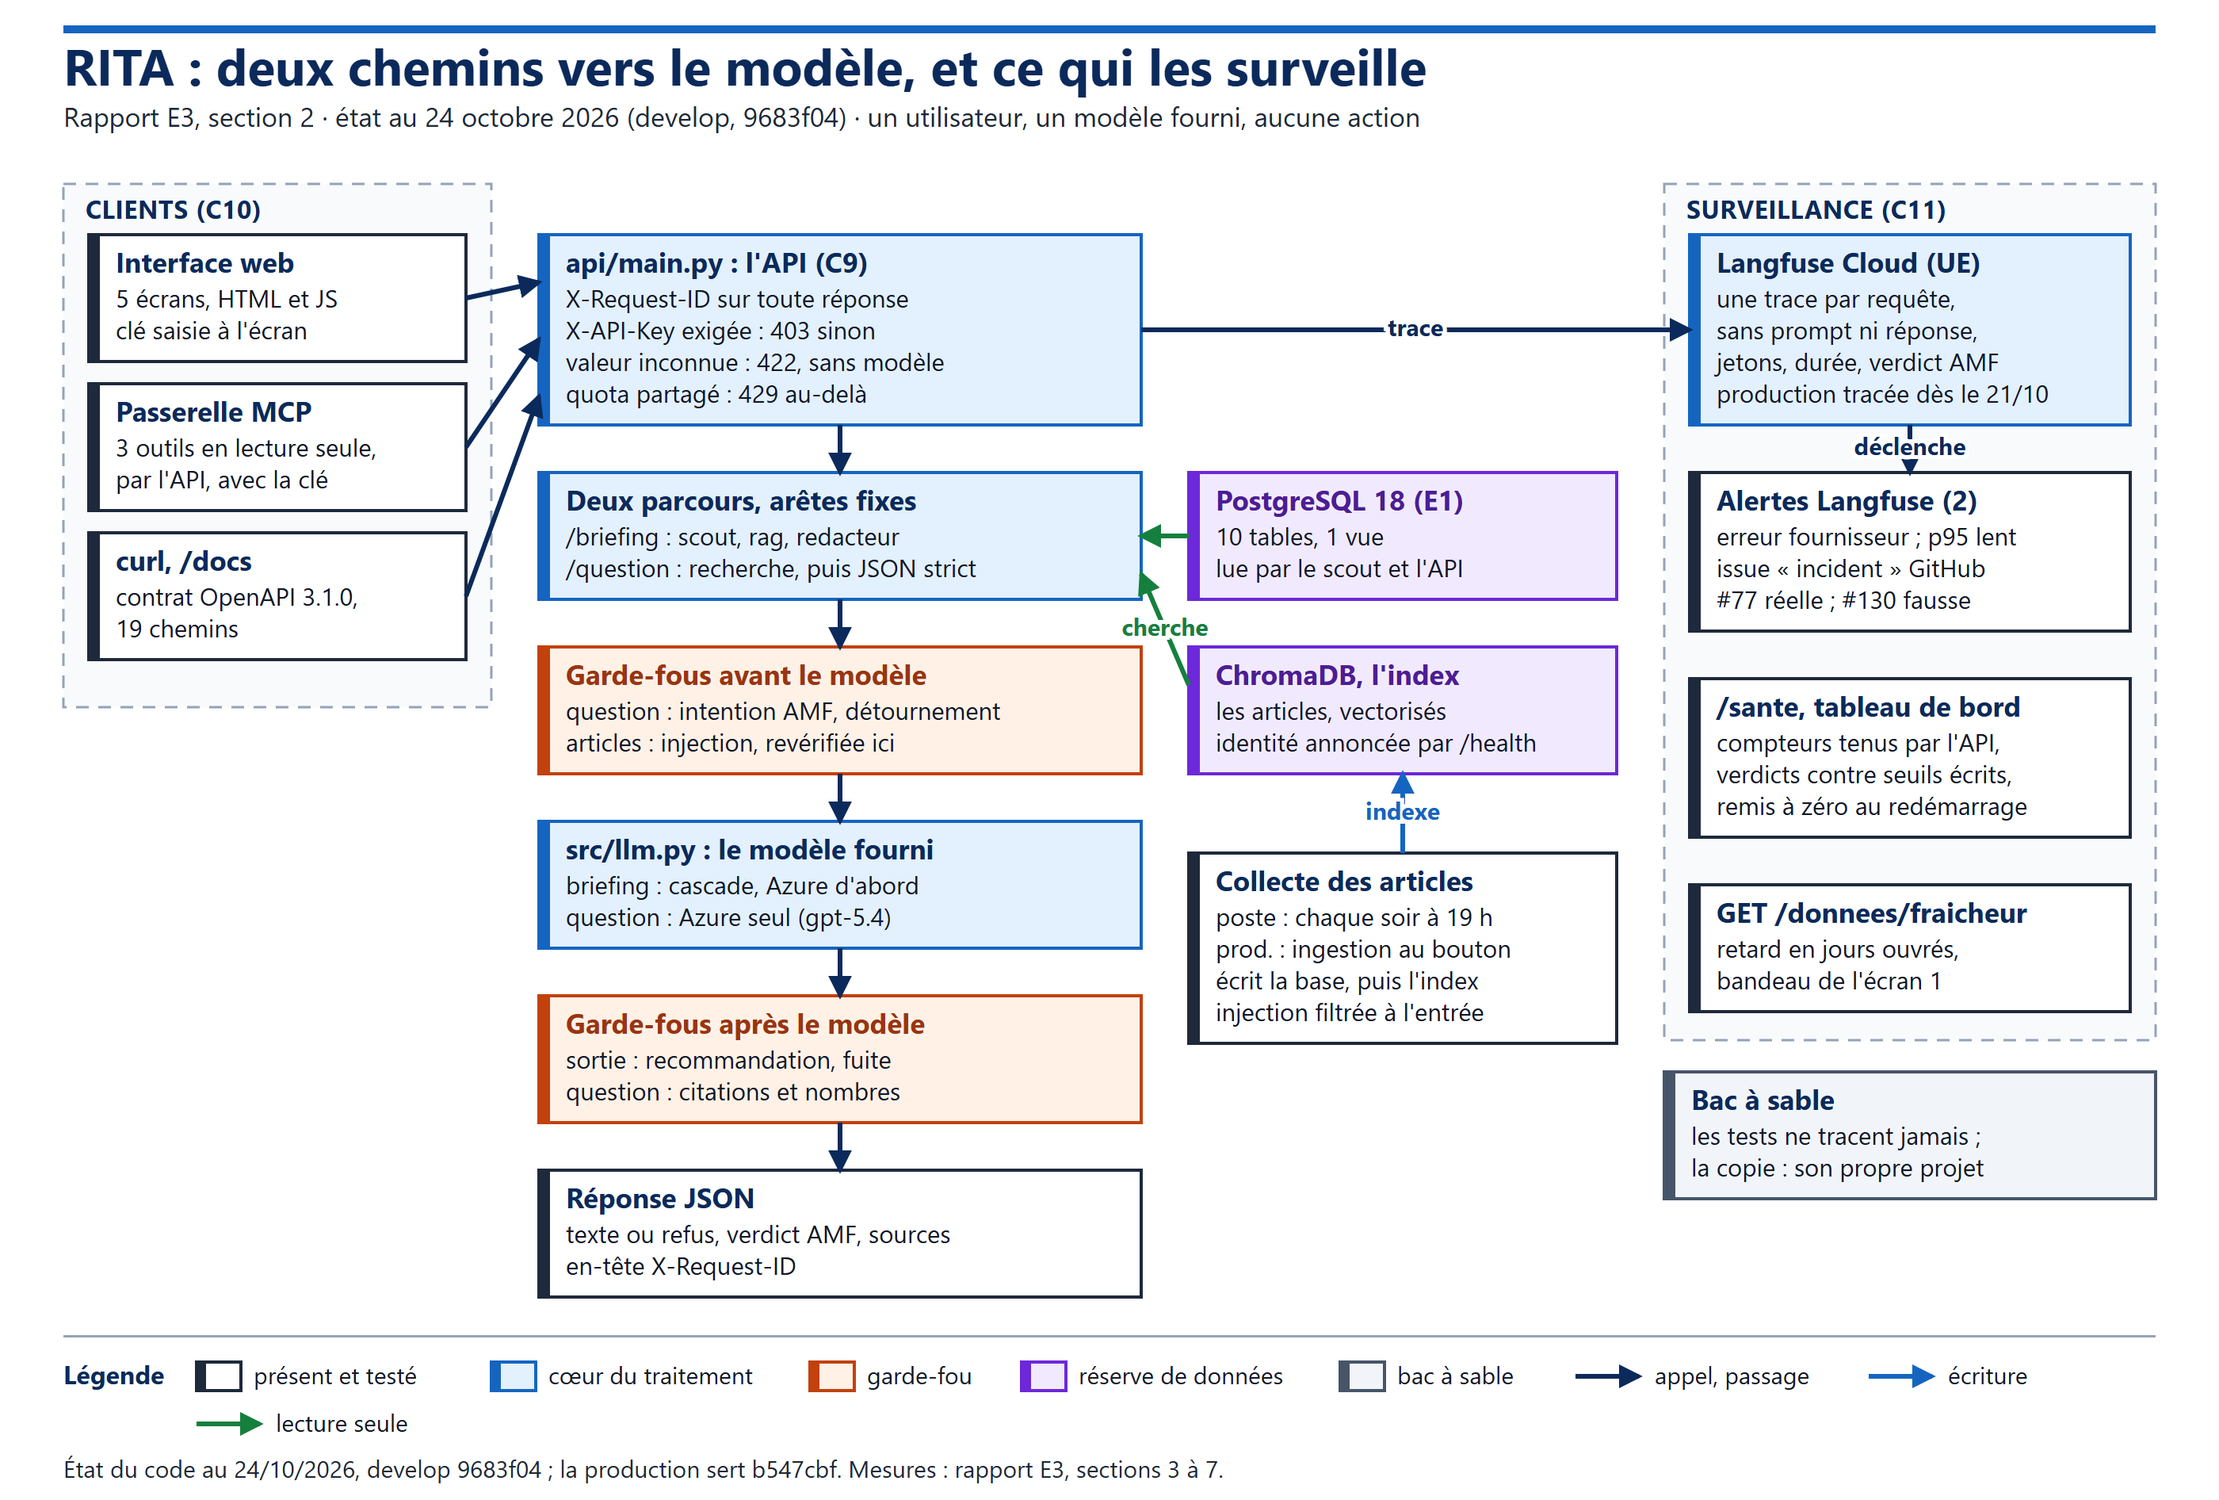
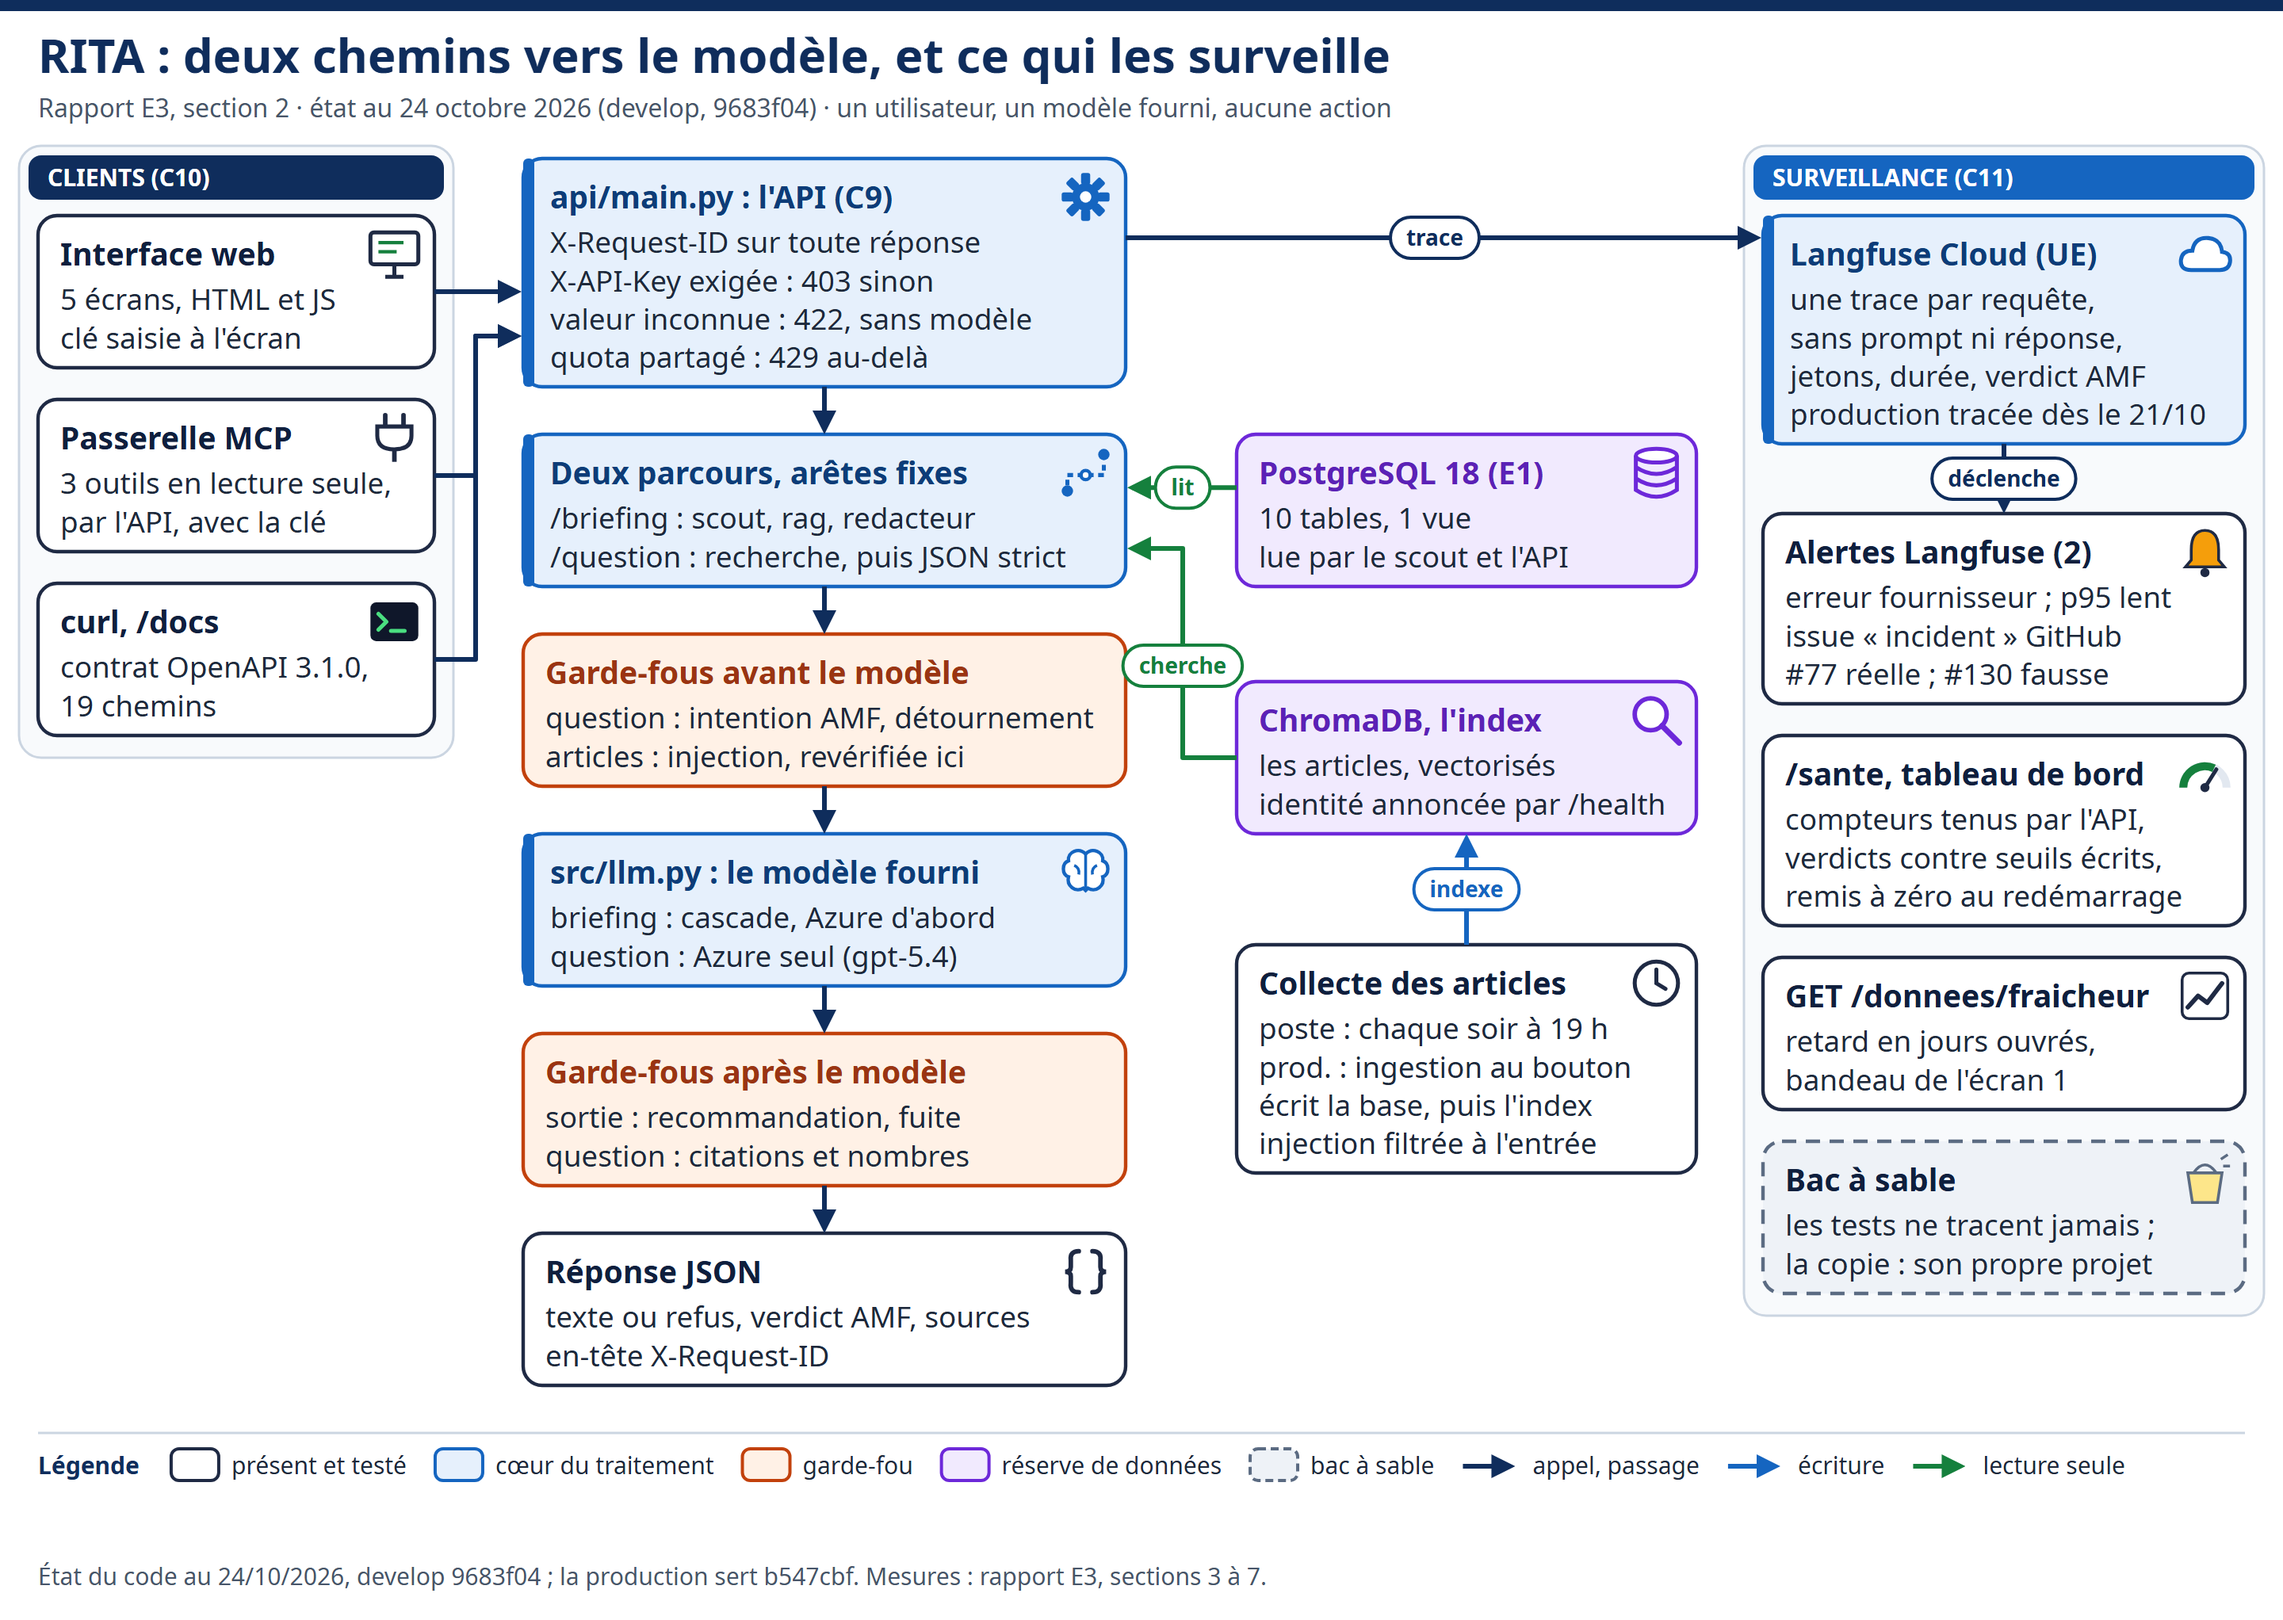
Schemas E3 : la mise en forme d Era, memes textes que le generateur, comparee par un test
Les cinq images publiees sont rendues par Chrome depuis E3-<nom>-illustre.svg (sources d Era, lues comme du texte : ni
script ni ressource externe). tests/test_schemas_e3.py (41 tests, ecrit d abord, 20 rouges sans les sources) compare
chaque texte de la mise en forme a ceux du generateur, verifie qu elle ne charge et n execute rien, et qu elle reste
lisible imprimee (texte courant de 6 a 6,9 points, 5 au plus petit). Prouve en reintroduisant l erreur 6 h a 9 h de la
premiere version : le test tombe. Le generateur reste la source des textes, le drawio et le svg generes les fichiers a
corriger.

Changed region(s): [[0.0, 0.0, 1.0, 0.9979]]

diff --git a/tests/test_schemas_e3.py b/tests/test_schemas_e3.py
@@ -1,0 +1,113 @@
+"""Les schémas du rapport E3 disent ce que dit le générateur, et la mise en forme d'Era aussi (E3 v1.5, 24/10/2026).
+
+Pourquoi ce test : le 24/10, la première mise en forme des cinq schémas, faite à partir d'un rendu intermédiaire,
+disait « 6 h à 9 h » pour le créneau du matin (8 h à 9 h dans le code), et deux autres textes que le générateur avait
+déjà corrigés. Une image dessinée à la main ne se relit pas seule : ce test compare chaque texte de la mise en forme
+(`E3-<nom>-illustre.svg`) aux textes du générateur, qui sont ceux vérifiés contre le code.
+
+Le générateur reste la source des textes ; le `.drawio` et le `.svg` générés restent les fichiers à corriger ; la
+mise en forme d'Era est l'image publiée, rendue en PNG depuis son SVG.
+"""
+import html
+import importlib.util
+import re
+import sys
+from pathlib import Path
+
+import pytest
+
+RACINE = Path(__file__).parent.parent
+DOSSIER = RACINE / "docs/rapports/E3/schemas"
+NOMS = ("E3-architecture", "E3-integration-briefing", "E3-monitorage", "E3-strategie-tests", "E3-chaine-livraison")
+# Étiquettes de flèche que la mise en forme peut ajouter : vraies, retirées du générateur seulement parce qu'elles
+# chevauchaient une boîte dans SA disposition (24/10).
+ETIQUETTES_PERMISES = {"lit", "fusion relue", "livrer <empreinte>", "Légende"}
+
+
+@pytest.fixture(scope="module")
+def gen():
+    chemin = DOSSIER / "generer_schemas.py"
+    spec = importlib.util.spec_from_file_location("schemas_e3_test", chemin)
+    module = importlib.util.module_from_spec(spec)
+    sys.modules["schemas_e3_test"] = module   # dataclass relit son module dans sys.modules
+    spec.loader.exec_module(module)
+    return module
+
+
+def _norme(texte: str) -> str:
+    return re.sub(r"\s+", " ", html.unescape(texte).replace("’", "'").replace(" ", " ")).strip()
+
+
+def _textes_attendus(schema) -> list[str]:
+    textes = [schema.titre, schema.sous_titre, schema.legende]
+    for b in schema.boites:
+        textes += [b.titre, *b.lignes]
+    textes += [f.etiquette for f in schema.fleches if f.etiquette]
+    textes += [*schema.cles_boites.values(), *schema.cles_fleches.values()]
+    return [_norme(t) for t in textes]
+
+
+def _textes_et_tailles(svg: str) -> list[tuple[str, float | None]]:
+    """(texte, taille) de chaque <text>, ou de chaque <tspan> quand le texte en a."""
+    sortie = []
+    for attributs, contenu in re.findall(r"<text\b([^>]*)>(.*?)</text>", svg, re.S):
+        taille = re.search(r'font-size="([\d.]+)', attributs)
+        taille = float(taille.group(1)) if taille else None
+        morceaux = re.findall(r"<tspan\b([^>]*)>(.*?)</tspan>", contenu, re.S) or [("", contenu)]
+        for a, c in morceaux:
+            t = re.search(r'font-size="([\d.]+)', a)
+            sortie.append((_norme(re.sub(r"<[^>]+>", "", c)), float(t.group(1)) if t else taille))
+    return [(t, s) for t, s in sortie if t]
+
+
+def _illustre(nom: str) -> str:
+    chemin = DOSSIER / f"{nom}-illustre.svg"
+    assert chemin.exists(), f"{chemin.name} absent : la mise en forme publiée n'a pas sa source"
+    return chemin.read_text(encoding="utf-8")
+
+
+@pytest.mark.parametrize("nom", NOMS)
+@pytest.mark.parametrize("fichier", ("{}.drawio", "{}.svg", "{}.png", "{}-illustre.svg"))
+def test_chaque_schema_a_sa_source_et_son_image(nom, fichier):
+    """Règle du dépôt : un .drawio pour corriger, une image pour voir ; et la source de l'image publiée."""
+    assert (DOSSIER / fichier.format(nom)).exists(), fichier.format(nom)
+
+
+@pytest.mark.parametrize("nom", NOMS)
+def test_le_fichier_genere_range_est_celui_que_produit_le_generateur(gen, nom):
+    schema = {s.nom: s for s in gen.SCHEMAS}[nom]
+    assert (DOSSIER / f"{nom}.svg").read_text(encoding="utf-8") == gen.svg(schema), \
+        f"{nom}.svg n'est plus à jour : relancer generer_schemas.py"
+    assert (DOSSIER / f"{nom}.drawio").read_text(encoding="utf-8") == gen.drawio(schema)
+
+
+def test_aucun_texte_genere_ne_deborde_de_sa_boite(gen):
+    assert [d for s in gen.SCHEMAS for d in gen.debordements(s)] == []
+
+
+@pytest.mark.parametrize("nom", NOMS)
+def test_la_mise_en_forme_dit_exactement_les_textes_du_generateur(gen, nom):
+    schema = {s.nom: s for s in gen.SCHEMAS}[nom]
+    attendus = _textes_attendus(schema)
+    presents = [t for t, _ in _textes_et_tailles(_illustre(nom))]
+    assert [a for a in attendus if a not in presents] == [], "texte du générateur absent de la mise en forme"
+    assert [t for t in presents if t not in attendus and t not in ETIQUETTES_PERMISES] == [], \
+        "texte de la mise en forme que le générateur ne dit pas"
+
+
+@pytest.mark.parametrize("nom", NOMS)
+def test_la_mise_en_forme_ne_charge_rien_et_n_execute_rien(nom):
+    svg = _illustre(nom)
+    interdits = re.findall(r"<script|\bon[a-z]+\s*=|javascript:|<foreignObject|<iframe|<!ENTITY|"
+                           r"(?:href|src)\s*=\s*[\"']https?:", svg, re.I)
+    assert interdits == []
+
+
+@pytest.mark.parametrize("nom", NOMS)
+def test_la_mise_en_forme_reste_lisible_une_fois_imprimee(nom):
+    """Dans le rapport, une figure fait 516 points de large : sur 1440 de large, 14 px donnent 5 points imprimés."""
+    svg = _illustre(nom)
+    largeur, hauteur = (float(v) for v in re.search(r'viewBox="0 0 ([\d.]+) ([\d.]+)"', svg).groups())
+    tailles = [s for _, s in _textes_et_tailles(svg) if s]
+    assert min(tailles) >= 14 * largeur / 1440, f"texte trop petit : {min(tailles)} px sur {largeur:.0f}"
+    assert hauteur / largeur <= 0.71, "plus haute qu'un A4 paysage : le rapport dépasserait 20 pages"

diff --git a/docs/rapports/E3/schemas/README.md b/docs/rapports/E3/schemas/README.md
@@ -1,8 +1,10 @@
 # Schémas du rapport E3
 
-Cinq schémas, générés depuis une seule description par `generer_schemas.py` : le `.drawio` (éditable
-dans draw.io) et le `.svg` sortent du même script, le `.png` est rendu depuis le `.svg` par Chrome
-sans fenêtre. Règle du dépôt : un `.drawio` pour corriger, une image pour voir.
+Cinq schémas. Leurs textes viennent d'une seule description, `generer_schemas.py`, qui écrit le `.drawio` (éditable
+dans draw.io) et le `.svg` : c'est là qu'on corrige un texte. L'image publiée dans le rapport est la **mise en forme
+d'Era** (`E3-<nom>-illustre.svg`, 24/10/2026), rendue en `.png` par Chrome sans fenêtre. `tests/test_schemas_e3.py`
+compare chaque texte de la mise en forme à ceux du générateur : un texte changé d'un côté seulement fait tomber le
+test. Règle du dépôt : un `.drawio` pour corriger, une image pour voir.
 
 | Fichier | Contenu | Section du rapport | Taille de rendu |
 |---|---|---|---|
@@ -24,14 +26,15 @@ C:\Python314\python.exe -X utf8 docs\rapports\E3\schemas\generer_schemas.py
 Le script refuse d'écrire si une ligne ne tient plus dans sa boîte (contrôle `debordements`, 24/10/2026) : il nomme
 la boîte et la ligne à raccourcir.
 
-Puis le rendu PNG, un schéma à la fois, en double résolution (Chrome exige un `--user-data-dir`, sinon il échoue sans
-message) :
+Le PNG publié se rend depuis la mise en forme, un schéma à la fois, en double résolution (Chrome exige un
+`--user-data-dir`, sinon il échoue sans message ; police Noto Sans, installée sur le poste) :
 
 ```
-"C:\Program Files\Google\Chrome\Application\chrome.exe" --headless=new --disable-gpu --hide-scrollbars --force-device-scale-factor=2 --user-data-dir=%TEMP%\chrome-rendu --window-size=1400,946 --screenshot=docs\rapports\E3\schemas\E3-architecture.png file:///D:/KandaWork/RITA_PROJECT/rita-agent/docs/rapports/E3/schemas/E3-architecture.svg
+"C:\Program Files\Google\Chrome\Application\chrome.exe" --headless=new --disable-gpu --hide-scrollbars --force-device-scale-factor=2 --user-data-dir=%TEMP%\chrome-rendu --window-size=1440,1022 --screenshot=docs\rapports\E3\schemas\E3-architecture.png file:///D:/KandaWork/RITA_PROJECT/rita-agent/docs/rapports/E3/schemas/E3-architecture-illustre.svg
 ```
 
-Même commande pour les quatre autres, avec la taille de rendu du tableau. Chaque PNG est regardé avant
+Même commande pour les quatre autres, même taille (1440,1022 ; la colonne « Taille de rendu » du tableau
+est celle du `.svg` généré). Chaque PNG est regardé avant
 d'être rangé : aucune flèche ne traverse une boîte ni un titre, aucun texte n'est coupé (les cinq le 24/10/2026,
 après la remise à jour).
 
@@ -42,3 +45,9 @@ que les couleurs employées et ce qu'elles veulent dire dans ce schéma.
 **Remise à jour du 24/10/2026 (E3 v1.5)** : les cinq schémas disaient l'état du 4 octobre. Le texte des boîtes,
 11,5 px dans un schéma réduit à 516 points de large, passait à environ 4 points une fois imprimé : il est passé à
 15,5 px (environ 5,7 points), les textes ont été raccourcis, et les explications sont dans le corps du rapport.
+
+**Mise en forme d'Era (24/10/2026)** : une première version, faite à partir d'un rendu intermédiaire, disait
+« 6 h à 9 h » pour le créneau du matin et deux textes déjà corrigés ; la seconde, faite depuis
+`TEXTES-EXACTS`, a les textes du générateur mot pour mot (comparaison automatique : 0 absent, 0 en plus
+hors trois étiquettes de flèche vérifiées) et un texte courant de 6 à 6,9 points une fois imprimé (5 au
+plus petit). Le test l'a prouvé en retrouvant l'erreur « 6 h » réintroduite exprès.
